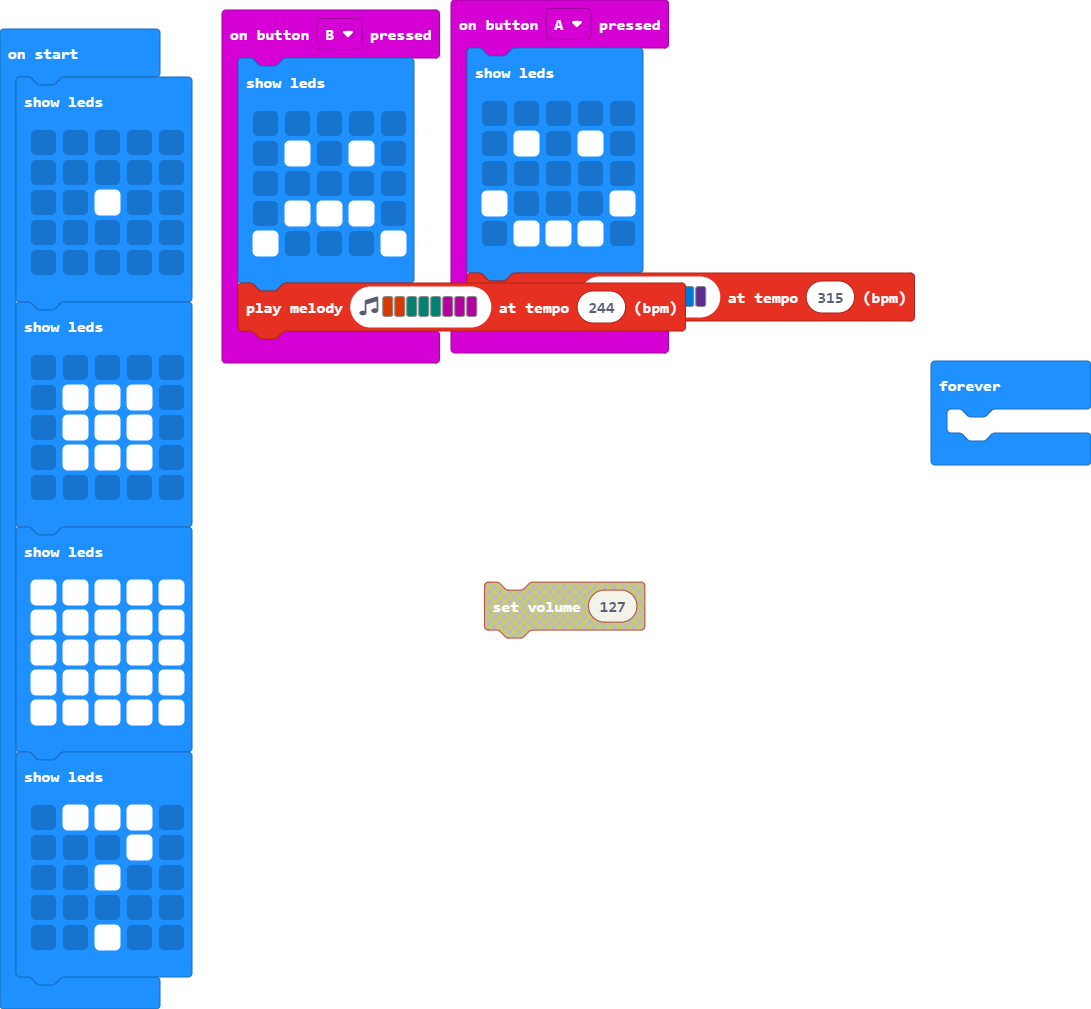
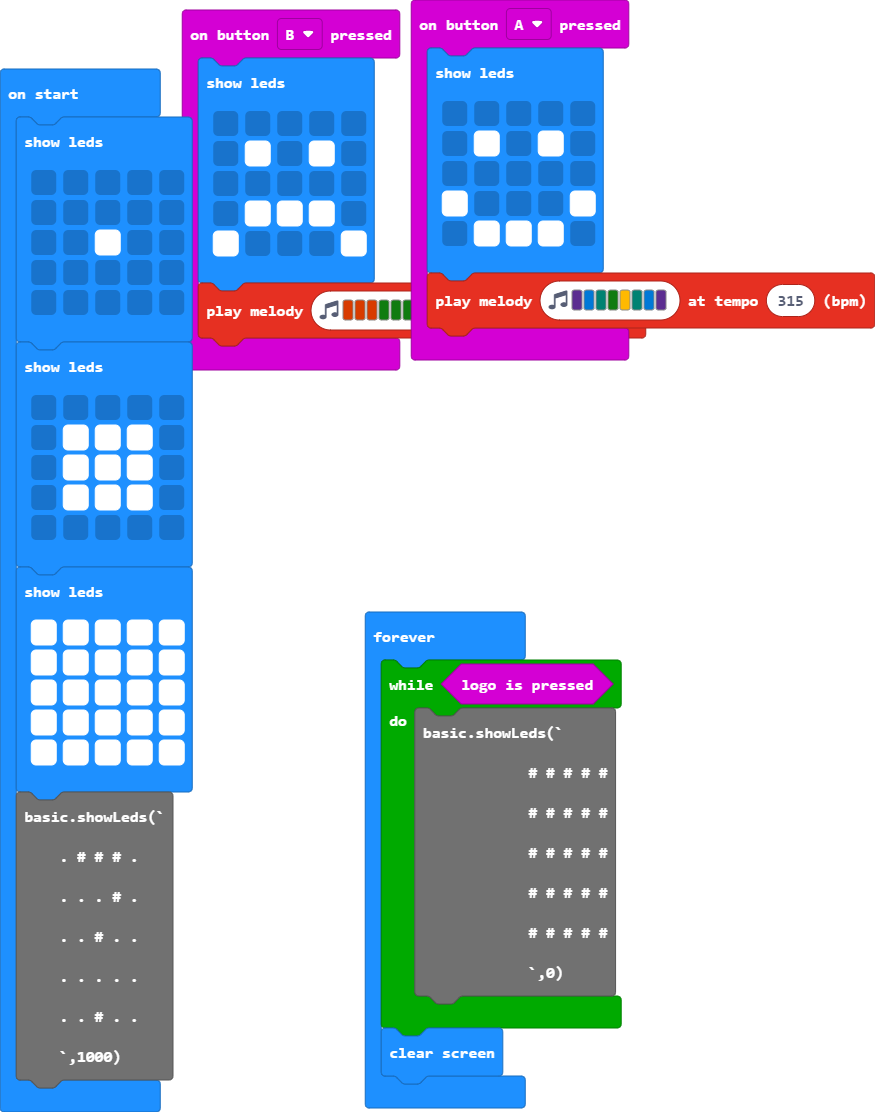
Update main.blocks, main.ts

diff --git a/main.ts b/main.ts
@@ -16,7 +16,7 @@ input.onButtonPressed(Button.B, function () {
         . # # # .
         # . . . #
         `)
-    music.playMelody("B B F F F C C C ", 244)
+    music.playMelody("B B B G G G C C ", 283)
 })
 basic.showLeds(`
     . . . . .
@@ -45,7 +45,16 @@ basic.showLeds(`
     . . # . .
     . . . . .
     . . # . .
-    `)
+    `,1000)
 basic.forever(function () {
-	
+    while (input.logoIsPressed()) {
+        basic.showLeds(`
+            # # # # #
+            # # # # #
+            # # # # #
+            # # # # #
+            # # # # #
+            `,0)
+    }
+    basic.clearScreen()
 })
